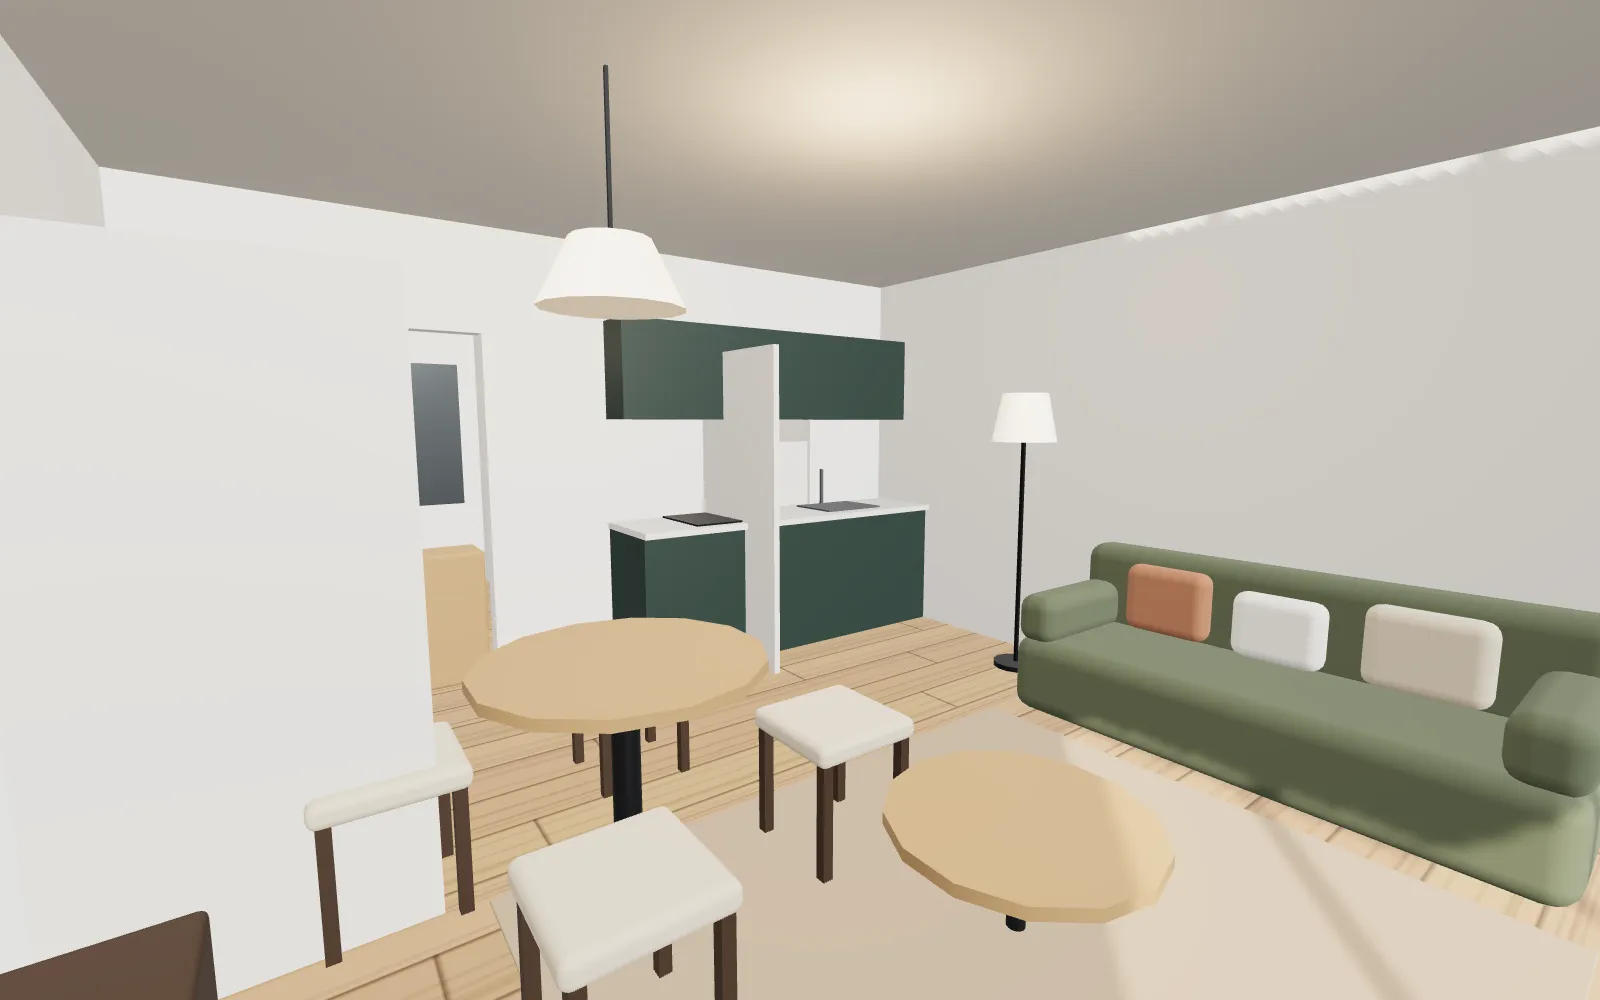
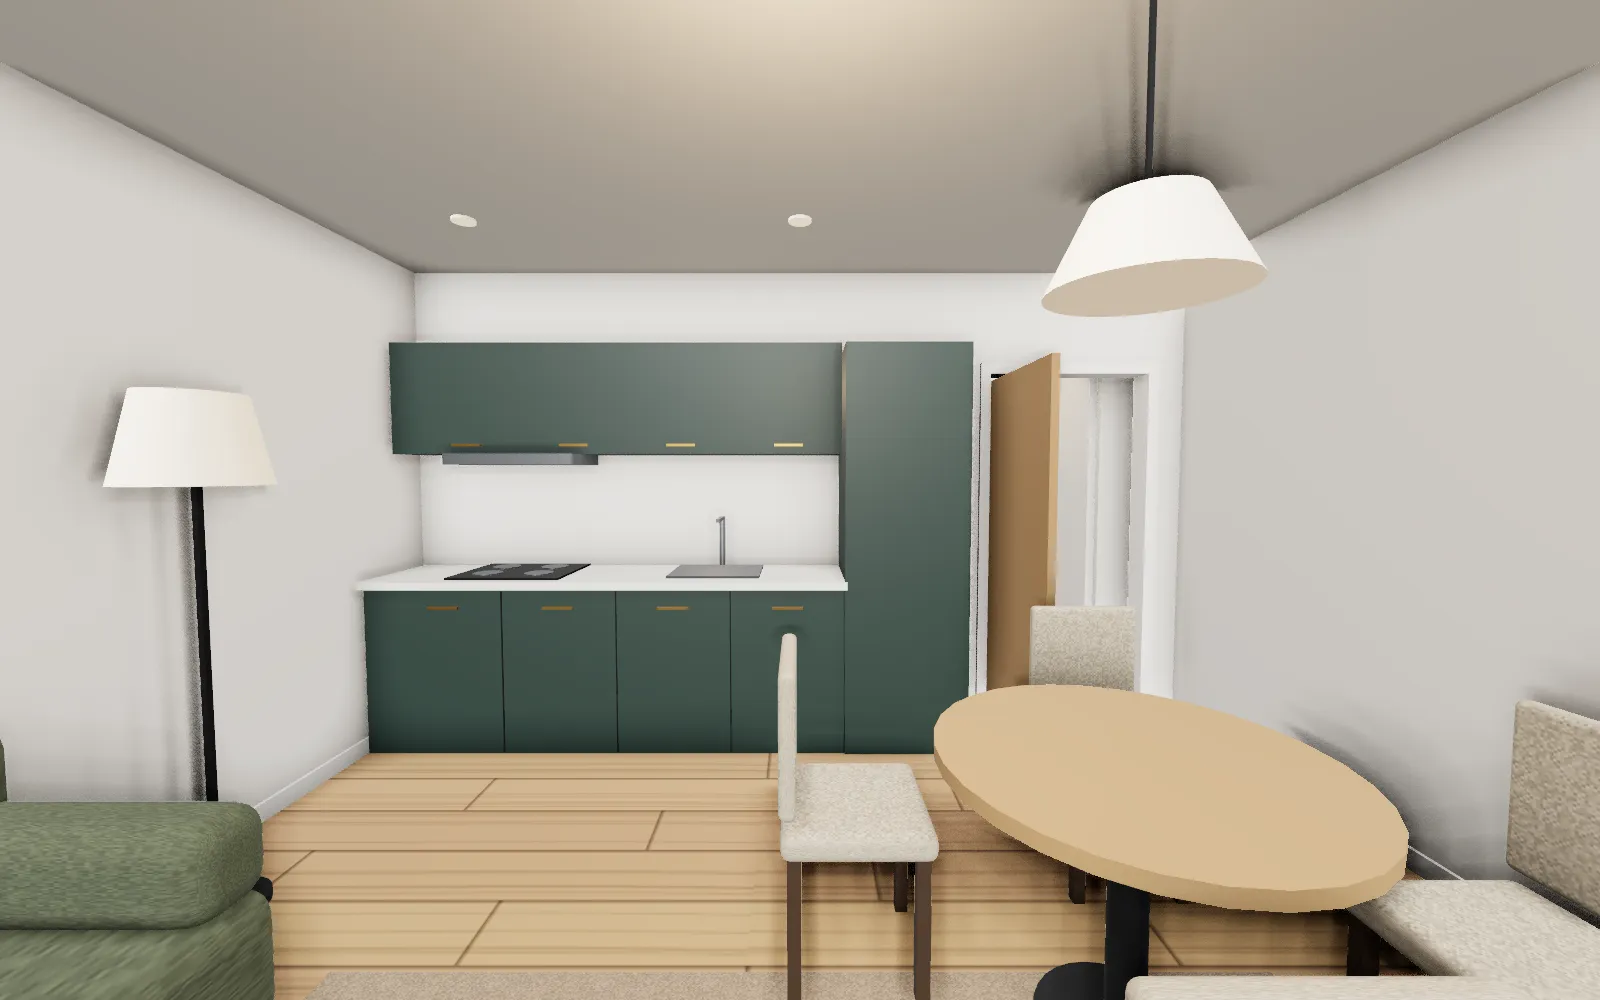
House re-planned around its halls, furniture solver on all buildings, cinema and doors fixed, room pictures re-rendered
Claude-Session: https://claude.ai/code/session_01BZrB8U47Xex47gJNQ3AVwN

diff --git a/3d/engine.js b/3d/engine.js
@@ -219,7 +219,7 @@ function makeMaterials() {
     brickRed: S('#fff', { map: T.brickRed, uv: 1.6, roughness: .95 }), brickDark: S('#fff', { map: T.brickDark, uv: 1.6, roughness: .95 }), brickBuff: S('#fff', { map: T.brickBuff, uv: 1.6, roughness: .95 }), brickNb: S('#fff', { map: T.brickNb, uv: 1.6, roughness: .95 }),
     render: S('#f0ece3', { roughness: .95 }), clad: S('#fff', { map: T.clad, uv: 1.4, roughness: .8 }), plinth: S('#3a3b3d', { roughness: .9 }), stone: S('#d9d2c3'),
     spandrel: S('#22262b', { roughness: .4, metalness: .5 }), bronze: S('#7a5a3a', { roughness: .35, metalness: .85 }), brass: S('#b08a4a', { roughness: .3, metalness: .9 }),
-    frame: S('#1d1f22', { roughness: .45, metalness: .6 }), door: S('#2b4a41', { roughness: .5 }), doorInt: S('#e9e5dd', { roughness: .6 }), rail: S('#1f2123', { roughness: .4, metalness: .7 }),
+    frame: S('#1d1f22', { roughness: .45, metalness: .6 }), door: S('#2b4a41', { roughness: .5 }), doorInt: S('#a9865c', { roughness: .5 }), rail: S('#1f2123', { roughness: .4, metalness: .7 }),
     wood: S('#fff', { map: T.oak, uv: 2.2, roughness: .55 }), tile: S('#fff', { map: T.tile, uv: 2.4, roughness: .3 }), carpet: S('#c9bfae', { roughness: 1 }), corridor: S('#77726a', { roughness: .85 }),
     lobbyFloor: S('#fff', { map: T.lobby, uv: 2.4, roughness: .2 }), deck: S('#fff', { map: T.deck, uv: 1.4, roughness: .8 }),
     sofa: S('#6a715a', { roughness: 1 }), fabric: S('#d6c9b3', { roughness: 1 }), linen: S('#f1ede5', { roughness: 1 }), throw_: S('#b57f63', { roughness: 1 }), curtain: S('#e4ddd0', { roughness: 1 }),
@@ -294,7 +294,8 @@ function classify(s, data, fi) {
   const comm = COMMUNAL.has(A.type) ? A : COMMUNAL.has(B.type) ? B : null;
   if (comm) { const o = comm === A ? B : A; return o.type === 'hall' || COMMUNAL.has(o.type) ? 'entry' : 'solid'; }
   if (A.unit !== B.unit) return 'solid';
-  if (style !== 'house') { if (A.type === 'hall' && B.type === 'hall') return 'none'; return A.type === 'hall' || B.type === 'hall' ? 'door' : 'solid'; }      // flats: every door is off the hall
+  if (A.type === 'hall' && B.type === 'hall') return 'none';
+  return A.type === 'hall' || B.type === 'hall' ? 'door' : 'solid';      // every door is off a hall
   if (LIVE.has(A.type) || LIVE.has(B.type)) return 'door';
   if ((A.type === 'bed' && B.type === 'bath') || (B.type === 'bed' && A.type === 'bath')) return 'door';
   return 'solid';
@@ -310,7 +311,7 @@ function planFloor(fl, data, fi) {
     if (cand) cand.kind = 'door';
   });
   // one door per room onto the hall: keep the widest wall
-  if (data.style !== 'house') rooms.forEach(q => { if (q.type === 'hall' || !q.unit) return; const ds = segs.filter(s => s.kind === 'door' && (s.A === q || s.B === q) && (s.A === q ? s.B : s.A).type === 'hall').sort((x, y) => (y.b - y.a) - (x.b - x.a)); ds.slice(1).forEach(s => { s.kind = 'solid'; }); });
+  rooms.forEach(q => { if (q.type === 'hall' || !q.unit) return; const ds = segs.filter(s => s.kind === 'door' && (s.A === q || s.B === q) && (s.A === q ? s.B : s.A).type === 'hall').sort((x, y) => (y.b - y.a) - (x.b - x.a)); ds.slice(1).forEach(s => { s.kind = 'solid'; }); });
   rooms.forEach(q => { q.ext = {}; });
   segs.forEach(s => {
     if (s.A && !s.B) s.A.ext[s.axis === 'x' ? 'e' : 's'] = true;
@@ -472,8 +473,8 @@ const SOLVE = new Set(['open', 'living', 'kitchen', 'dining', 'bed', 'bath', 'st
 function furnishBest(q, B, segs, rooms, o) {
   const glassZ = []; segs.forEach(g => { if ((g.A === q) === (g.B === q) || (g.A && g.B && !OUTSIDE.has((g.A === q ? g.B : g.A).type))) return; if (g.A && g.B && g.kind !== 'slider') return; const d0 = g.A === q ? g.L - .55 : g.L, d1 = g.A === q ? g.L : g.L + .55; glassZ.push(g.axis === 'x' ? [d0, d1, g.a, g.b] : [g.a, g.b, d0, d1]); });
   const SOFT = new Set(['curtain', 'plant', 'plant2', 'pot', 'flower']);
-  const fixed = !SOLVE.has(q.type) || q.tall || (o.house && o.fi === 0 && q.type === 'hall'), zones = fixed ? [] : doorZones(q, o.house ? segs.filter(g => g.kind === 'door') : segs);
-  const tries = fixed ? [{}] : o.house ? [{}, { flip: 1 }] : [{}, { swap: 1 }, { flip: 1 }, { flip: 1, swap: 1 }, { face: 'n' }, { face: 'n', flip: 1 }, { face: 's' }, { face: 's', flip: 1 }, { face: 'e' }, { face: 'e', flip: 1 }, { face: 'w' }, { face: 'w', flip: 1 }];
+  const fixed = !SOLVE.has(q.type) || q.tall || (o.house && o.fi === 0 && q.type === 'hall'), zones = fixed ? [] : doorZones(q, segs);
+  const tries = fixed ? [{}] : [{}, { swap: 1 }, { flip: 1 }, { flip: 1, swap: 1 }, { face: 'n' }, { face: 'n', flip: 1 }, { face: 's' }, { face: 's', flip: 1 }, { face: 'e' }, { face: 'e', flip: 1 }, { face: 'w' }, { face: 'w', flip: 1 }];
   const real = c => !((c.y1 - c.y0 < .05 && c.y0 < .1) || c.y0 > 2.0);          // not a rug, not something on the ceiling
   let best = null;
   for (const t of tries) {
@@ -580,10 +581,9 @@ function furnish(q, B, rooms, o) {
       return;
     }
     case 'living': {
-      if (q.look === 'cinema') {          // screen wall, two tiers of recliners, a bar at the back
-        box('black', U - 1.2, 2.3, .06, U / 2, 1.45, .08); box('screen', U - 1.8, 1.9, .03, U / 2, 1.45, .13); box('darkWood', U - .4, .3, 2.4, U / 2, .15, V - 2.6);
-        for (let r = 0; r < 2; r++) for (let k = 0; k < 4; k++) { const cu = U / 2 - 2.55 + k * 1.7, cv = 3.2 + r * 2.1, up = r * .3; rbox('sofa', 1.2, .45, 1.2, cu, .25 + up, cv, .12); rbox('sofa', 1.2, .7, .3, cu, .7 + up, cv + .55, .1); rbox('sofa', .2, .3, 1.1, cu - .62, .55 + up, cv, .06); rbox('sofa', .2, .3, 1.1, cu + .62, .55 + up, cv, .06); }
-        box('cabinet', 3.4, 1.05, .6, U / 2, .52, V - .36); box('worktop', 3.5, .05, .7, U / 2, 1.07, V - .36); for (let k = 0; k < 6; k++) cyl('glass', .04, .26, U / 2 - 1.2 + k * .48, 1.23, V - .3, .03); rbox('rug2', U - 1.4, .014, 2.2, U / 2, .007, 2.0, .005);
+      if (q.look === 'cinema') {          // screen on the solid back wall, two tiers of recliners facing it
+        box('black', U - 1.2, 2.3, .06, U / 2, 1.45, V - .08); box('screen', U - 1.8, 1.9, .03, U / 2, 1.45, V - .13); box('darkWood', U - .4, .3, 2.4, U / 2, .15, 2.4); rbox('rug2', U - 1.4, .014, 2.2, U / 2, .007, V - 2.0, .005);
+        for (let r = 0; r < 2; r++) for (let k = 0; k < 4; k++) { const cu = U / 2 - 2.55 + k * 1.7, cv = V - 3.4 - r * 2.1, up = r * .3; rbox('sofa', 1.2, .45, 1.2, cu, .25 + up, cv, .12); rbox('sofa', 1.2, .7, .3, cu, .7 + up, cv - .55, .1); rbox('sofa', .2, .3, 1.1, cu - .62, .55 + up, cv, .06); rbox('sofa', .2, .3, 1.1, cu + .62, .55 + up, cv, .06); }
         return;
       }
       if (q.look === 'bar') {          // sky lounge: a long bar, sofas facing the view, a telescope at the glass
@@ -605,7 +605,7 @@ function furnish(q, B, rooms, o) {
     case 'kitchen': { kitchen(.06, U - .06); island(U / 2, Math.max(1.5, V - 2.3), Math.min(2.4, U - 1.8)); plant(.4, .4, .9); beams(); return; }
     case 'dining': { if (U > 6 && V > 6) { rbox('rug', 6, .014, 3.4, U / 2, .007, V / 2, .005); longTable(U / 2, V / 2, 4.4, 12); [-1.4, 0, 1.4].forEach(k => pendant(U / 2 + k, V / 2, .55, .2)); rbox('darkWood', 3.2, .8, .45, U / 2, .4, V - .26, .02); artBack(U / 2, 2.4, 1.2, 1); plant(.6, .6, 1.4); return; } longTable(U / 2, V / 2, Math.min(2.2, U - 1), U < 3.4 ? 4 : 6); beams(); return; }
     case 'bed': {
-      const bw = U > 3.3 ? 1.65 : 1.4, bl = 2.05, bu = U / 2, bv = V - bl / 2 - .12;
+      const bw = U > 6 ? 2.1 : U > 3.3 ? 1.65 : 1.4, bl = U > 6 ? 2.2 : 2.05, bu = U / 2, bv = V - bl / 2 - .12;
       rbox('darkWood', bw + .12, .28, bl + .06, bu, .16, bv, .04); rbox('linen', bw, .24, bl - .08, bu, .42, bv, .08); rbox('throw_', bw + .04, .1, .7, bu, .52, bv - bl / 2 + .5, .04);
       rbox('fabric', bw + .2, 1.05, .12, bu, .6, V - .07, .05); rbox('white', .6, .16, .36, bu - bw / 4, .6, V - .42, .07); rbox('white', .6, .16, .36, bu + bw / 4, .6, V - .42, .07);
       [-1, 1].forEach(g => { if (U > bw + 1.3) { const su = bu + g * (bw / 2 + .36); rbox('oak', .46, .5, .4, su, .25, V - .27, .02); cyl('brass', .07, .02, su, .51, V - .27); box('brass', .015, .26, .015, su, .64, V - .27); cyl('lampShade', .12, .16, su, .82, V - .27, .08); } });
@@ -1135,7 +1135,7 @@ export function run(data, root) {
     aoLoading = false;
   }
   const EYE = 1.52, okRoom = r => (data.single || (walk && r.unit === walk.unit)) && r.type !== 'core' && r.type !== 'void' && !COMMUNAL.has(r.type);
-  const gaps = fi => plans[fi].filter(g => g.A && g.B && okRoom(g.A) && okRoom(g.B) && ['door', 'slider', 'bifold', 'none'].includes(g.kind)).map(g => g.kind === 'door' ? { g, a: g.dc - g.dw / 2 + .09, b: g.dc + g.dw / 2 - .09, c: g.dc } : { g, a: g.a + .3, b: g.b - .3, c: (g.a + g.b) / 2 }).filter(o => o.b > o.a);
+  const gaps = fi => plans[fi].filter(g => g.A && g.B && okRoom(g.A) && okRoom(g.B) && ['door', 'slider', 'bifold', 'none'].includes(g.kind) && (g.kind !== 'door' || g.b - g.a >= 1.3)).map(g => g.kind === 'door' ? { g, a: g.dc - g.dw / 2 + .09, b: g.dc + g.dw / 2 - .09, c: g.dc } : { g, a: g.a + .3, b: g.b - .3, c: (g.a + g.b) / 2 }).filter(o => o.b > o.a);
   const hitsSolid = (r, x, z, pad = .12, all) => ((all ? r.all : r.solids) || []).some(b => x > b[0] - pad && x < b[1] + pad && z > b[2] - pad && z < b[3] + pad);
   // the room you would be standing in at (x, z), or null if that is inside a wall or a piece of furniture
   function standAt(x, z, fi, pad = .12) {
@@ -1483,5 +1483,5 @@ export function run(data, root) {
   showCard(data.single ? houseCard() : buildingCard()); allBtn.classList.add('on'); setStyle('oak');
   requestAnimationFrame(t => { last = t; ui.loader && ui.loader.classList.add('done'); if (new URLSearchParams(location.search).has('story')) { storyOn(); parent !== window && parent.postMessage({ rv: 'ready' }, location.origin); } else flyTo(p0, t0, 2.2); hint(data.single ? 'Tap the house to see inside.' : 'Tap a floor to see inside it.'); tick(t); });
 
-  window.__rv = { openFloor, closeFloors, ask, setStyle, view, rooms: (fi, unit) => data.floors[fi].rooms.filter(q => !unit || q.unit === unit).map(q => [q.id, q.type]), turn: (a, pitch = -.04) => { look.yaw = faceWindow(walk.room) + a; look.pitch = pitch; dirty = true; }, fov: f => { camera.fov = f; camera.updateProjectionMatrix(); dirty = true; }, eye: (p, t, f = 68) => { fly = null; if (walk) walk.to = null; camera.position.set(...p); const d = new THREE.Vector3(t[0] - p[0], t[1] - p[1], t[2] - p[2]).normalize(); look.yaw = Math.atan2(d.x, d.z); look.pitch = Math.asin(d.y); camera.fov = f; camera.updateProjectionMatrix(); dirty = true; }, selectUnit: id => selectUnit(data.units[id]), enterWalk: (fi, id) => enterWalk(fi, data.floors[fi].rooms.find(q => q.id === id)), setTime: h => { ui.slider.value = h; setTime(h); }, look: (yaw, pitch = 0) => { look.yaw = yaw; look.pitch = pitch; dirty = true; }, cam: (p, t) => { fly = null; camera.position.set(...p); controls.target.set(...t); camera.lookAt(controls.target); dirty = true; }, info: () => ({ calls: renderer.info.render.calls, tris: renderer.info.render.triangles, geos: renderer.info.memory.geometries }), story: p => { if (!st) storyOn(); st.to = st.p = p; storyAt(p); }, storyEnter, storyLeave, sim: n => { for (let i = 0; i < n; i++) tick(last + 50, true); }, reach: () => data.floors.flatMap((f, fi) => { const out = []; const units = data.single ? [undefined] : [...new Set(f.rooms.filter(q => q.unit).map(q => q.unit))]; units.forEach(u => { const save = walk; walk = { unit: u }; const rs = f.rooms.filter(okRoom), start = rs.find(q => q.type === 'hall') || rs[0]; if (start) rs.forEach(q => { if (q !== start && route(fi, start, q) === null) out.push([fi, q.id]); }); walk = save; }); return out; }), go: id => moveTo(data.floors[walk.floor].rooms.find(q => q.id === id), walk.floor), walkInfo: () => walk && { room: walk.room.id, pos: camera.position.toArray().map(v => +v.toFixed(2)), moving: !!walk.path }, key: (k, on) => { keys[k] = on; }, audit: () => data.floors.flatMap((f, i) => { ensureInner(i); return f.rooms.filter(q => q.fit > .01).map(q => [i, q.id, q.type, +q.fit.toFixed(2)]); }), settled: () => !fly && !(walk && walk.to) && (cut > BIG / 2 || Math.abs(cutTo - cut) < .03) };
+  window.__rv = { openFloor, closeFloors, ask, setStyle, view, rooms: (fi, unit) => data.floors[fi].rooms.filter(q => !unit || q.unit === unit).map(q => [q.id, q.type]), turn: (a, pitch = -.04) => { look.yaw = faceWindow(walk.room) + a; look.pitch = pitch; dirty = true; }, fov: f => { camera.fov = f; camera.updateProjectionMatrix(); dirty = true; }, eye: (p, t, f = 68) => { fly = null; if (walk) walk.to = null; camera.position.set(...p); const d = new THREE.Vector3(t[0] - p[0], t[1] - p[1], t[2] - p[2]).normalize(); look.yaw = Math.atan2(d.x, d.z); look.pitch = Math.asin(d.y); camera.fov = f; camera.updateProjectionMatrix(); dirty = true; }, selectUnit: id => selectUnit(data.units[id]), enterWalk: (fi, id) => enterWalk(fi, data.floors[fi].rooms.find(q => q.id === id)), setTime: h => { ui.slider.value = h; setTime(h); }, look: (yaw, pitch = 0) => { look.yaw = yaw; look.pitch = pitch; dirty = true; }, cam: (p, t) => { fly = null; camera.position.set(...p); controls.target.set(...t); camera.lookAt(controls.target); dirty = true; }, info: () => ({ calls: renderer.info.render.calls, tris: renderer.info.render.triangles, geos: renderer.info.memory.geometries }), story: p => { if (!st) storyOn(); st.to = st.p = p; storyAt(p); }, storyEnter, storyLeave, inside: (fi, id) => { enterWalk(fi, data.floors[fi].rooms.find(q => q.id === id), true); if (fly) { camera.position.copy(fly.p1); fly = null; } camera.fov = walkFov(); camera.updateProjectionMatrix(); dirty = true; }, sim: n => { for (let i = 0; i < n; i++) tick(last + 50, true); }, reach: () => data.floors.flatMap((f, fi) => { const out = []; const units = data.single ? [undefined] : [...new Set(f.rooms.filter(q => q.unit).map(q => q.unit))]; units.forEach(u => { const save = walk; walk = { unit: u }; const rs = f.rooms.filter(okRoom), start = rs.find(q => q.type === 'hall') || rs[0]; if (start) rs.forEach(q => { if (q !== start && route(fi, start, q) === null) out.push([fi, q.id]); }); walk = save; }); return out; }), go: id => moveTo(data.floors[walk.floor].rooms.find(q => q.id === id), walk.floor), walkInfo: () => walk && { room: walk.room.id, pos: camera.position.toArray().map(v => +v.toFixed(2)), moving: !!walk.path }, key: (k, on) => { keys[k] = on; }, audit: () => data.floors.flatMap((f, i) => { ensureInner(i); return f.rooms.filter(q => q.fit > .01).map(q => [i, q.id, q.type, +q.fit.toFixed(2)]); }), settled: () => !fly && !(walk && walk.to) && (cut > BIG / 2 || Math.abs(cutTo - cut) < .03) };
 }

diff --git a/3d/buildings.js b/3d/buildings.js
@@ -205,25 +205,22 @@ export function house() {
   const ground = [
     r('hall', 'hall', -1.2, -4.5, 2.6, 4.2, { unit: 'house', name: 'Entrance hall' }),
     r('living', 'living', -6, -4.5, 4.8, 4.2, { unit: 'house', name: 'Living room' }),
-    r('study', 'study', 1.4, -4.5, 4.6, 3.0, { unit: 'house', name: 'Study' }),
-    r('wc', 'bath', 1.4, -1.5, 1.8, 1.2, { unit: 'house', name: 'Cloakroom' }),
-    r('util', 'utility', 3.2, -1.5, 2.8, 1.2, { unit: 'house', name: 'Utility' }),
+    r('study', 'study', 1.4, -4.5, 4.6, 2.8, { unit: 'house', name: 'Study' }),
+    r('wc', 'bath', 1.4, -1.7, 1.8, 1.4, { unit: 'house', name: 'Cloakroom' }),
+    r('util', 'utility', 3.2, -1.7, 2.8, 1.4, { unit: 'house', name: 'Utility' }),
     r('kitchen', 'kitchen', 1.4, -0.3, 4.6, 4.8, { unit: 'house', name: 'Kitchen' }),
     r('dining', 'dining', -1.2, -0.3, 2.6, 4.8, { unit: 'house', name: 'Dining' }),
-    r('family', 'living', -6, 0.3, 4.8, 4.2, { unit: 'house', name: 'Family room' }),
-    r('snug', 'hall', -6, -0.3, 4.8, 0.6, { unit: 'house', name: 'Passage' }),
+    r('family', 'living', -6, -0.3, 4.8, 4.8, { unit: 'house', name: 'Family room' }),
   ];
   const first = [
-    r('land', 'hall', -1.2, -4.5, 2.6, 4.2, { unit: 'house', name: 'Landing' }),
+    r('land', 'hall', -1.2, -4.5, 2.6, 5.7, { unit: 'house', name: 'Landing' }),
     r('b1', 'bed', -6, -4.5, 4.8, 4.2, { unit: 'house', name: 'Main bedroom' }),
-    r('ens', 'bath', 1.4, -4.5, 2.4, 2.2, { unit: 'house', name: 'En-suite' }),
-    r('ward', 'utility', 3.8, -4.5, 2.2, 2.2, { unit: 'house', name: 'Dressing room' }),
+    r('ens', 'bath', 1.4, -4.5, 2.4, 2.2, { unit: 'house', name: 'Shower room' }),
+    r('ward', 'utility', 3.8, -4.5, 2.2, 2.2, { unit: 'house', name: 'Linen and storage' }),
     r('b4', 'study', 1.4, -2.3, 4.6, 2.0, { unit: 'house', name: 'Bedroom 4 / office' }),
-    r('bath', 'bath', -1.2, -0.3, 2.6, 2.4, { unit: 'house', name: 'Family bathroom' }),
+    r('bath', 'bath', -1.2, 1.2, 2.6, 3.3, { unit: 'house', name: 'Family bathroom' }),
     r('b2', 'bed', 1.4, -0.3, 4.6, 4.8, { unit: 'house', name: 'Bedroom 2' }),
-    r('b3', 'bed', -6, 0.3, 4.8, 4.2, { unit: 'house', name: 'Bedroom 3' }),
-    r('linen', 'utility', -1.2, 2.1, 2.6, 2.4, { unit: 'house', name: 'Linen cupboard' }),
-    r('lp', 'hall', -6, -0.3, 4.8, 0.6, { unit: 'house', name: 'Landing' }),
+    r('b3', 'bed', -6, -0.3, 4.8, 4.8, { unit: 'house', name: 'Bedroom 3' }),
   ];
   const floors = [
     { label: 'Ground floor', short: 'G', rooms: ground },
@@ -257,7 +254,7 @@ export function house() {
     blurb: 'A modern barn-style family home with a glazed gable over the garden. Walk through every room.',
     style: 'house', story: { floor: 0, room: 'kitchen' }, floorH: H, size: [12, 9], floors, units, notes,
     site: { kind: 'suburb' }, roof: 'barn', startHour: 15.5, single: true,
-    doorAt: { 'hall|study': 0.2 }, wallKind: { 'hall|wc': 'solid' },
+    doorAt: { 'hall|study': 0.2 }, wallKind: { 'dining|kitchen': 'none', 'dining|family': 'door' },
     spec: {
       materials: 'White lime render with black charred-timber cladding on the gables, a natural slate roof and an oak-framed porch. The back gable is glazed to the ridge.',
       finishes: 'Oak floors, a quartz island kitchen, a wood burner in the living room and stone-tiled bathrooms. Try the Style button to see other finishes.',

diff --git a/3d/block/index.html b/3d/block/index.html
@@ -10,7 +10,7 @@
 <link rel="icon" href="/favicon.svg" type="image/svg+xml">
 <link rel="preconnect" href="https://fonts.gstatic.com" crossorigin>
 <link rel="stylesheet" href="https://fonts.googleapis.com/css2?family=Cormorant+Garamond:wght@400;500;600&amp;family=Schibsted+Grotesk:wght@400;500;600&amp;display=swap">
-<link rel="stylesheet" href="/3d/viewer.css?v=11">
+<link rel="stylesheet" href="/3d/viewer.css?v=12">
 <script type="importmap">{"imports":{"three":"/3d/lib/three.module.js"}}</script>
 </head>
 <body>
@@ -72,8 +72,8 @@
   <div class="nogl" data-nogl><p>This demo needs WebGL, which this browser has switched off.</p></div>
 </main>
 <script type="module">
-import { run } from '/3d/engine.js?v=11';
-import { block } from '/3d/buildings.js?v=11';
+import { run } from '/3d/engine.js?v=12';
+import { block } from '/3d/buildings.js?v=12';
 const root = document.getElementById('rv'), q = new URLSearchParams(location.search);
 if (q.has('embed')) root.classList.add('embed');
 try {

diff --git a/3d/house/index.html b/3d/house/index.html
@@ -10,7 +10,7 @@
 <link rel="icon" href="/favicon.svg" type="image/svg+xml">
 <link rel="preconnect" href="https://fonts.gstatic.com" crossorigin>
 <link rel="stylesheet" href="https://fonts.googleapis.com/css2?family=Cormorant+Garamond:wght@400;500;600&amp;family=Schibsted+Grotesk:wght@400;500;600&amp;display=swap">
-<link rel="stylesheet" href="/3d/viewer.css?v=11">
+<link rel="stylesheet" href="/3d/viewer.css?v=12">
 <script type="importmap">{"imports":{"three":"/3d/lib/three.module.js"}}</script>
 </head>
 <body>
@@ -72,8 +72,8 @@
   <div class="nogl" data-nogl><p>This demo needs WebGL, which this browser has switched off.</p></div>
 </main>
 <script type="module">
-import { run } from '/3d/engine.js?v=11';
-import { house } from '/3d/buildings.js?v=11';
+import { run } from '/3d/engine.js?v=12';
+import { house } from '/3d/buildings.js?v=12';
 const root = document.getElementById('rv'), q = new URLSearchParams(location.search);
 if (q.has('embed')) root.classList.add('embed');
 try {

diff --git a/3d/tower/index.html b/3d/tower/index.html
@@ -10,7 +10,7 @@
 <link rel="icon" href="/favicon.svg" type="image/svg+xml">
 <link rel="preconnect" href="https://fonts.gstatic.com" crossorigin>
 <link rel="stylesheet" href="https://fonts.googleapis.com/css2?family=Cormorant+Garamond:wght@400;500;600&amp;family=Schibsted+Grotesk:wght@400;500;600&amp;display=swap">
-<link rel="stylesheet" href="/3d/viewer.css?v=11">
+<link rel="stylesheet" href="/3d/viewer.css?v=12">
 <script type="importmap">{"imports":{"three":"/3d/lib/three.module.js"}}</script>
 </head>
 <body>
@@ -72,8 +72,8 @@
   <div class="nogl" data-nogl><p>This demo needs WebGL, which this browser has switched off.</p></div>
 </main>
 <script type="module">
-import { run } from '/3d/engine.js?v=11';
-import { tower } from '/3d/buildings.js?v=11';
+import { run } from '/3d/engine.js?v=12';
+import { tower } from '/3d/buildings.js?v=12';
 const root = document.getElementById('rv'), q = new URLSearchParams(location.search);
 if (q.has('embed')) root.classList.add('embed');
 try {

diff --git a/offplan/dev.js b/offplan/dev.js
@@ -1,6 +1,6 @@
 // Off-plan development page. One template for any development: a tower, a block of flats or a single house.
 // Plans and homes come from /3d/buildings.js, words and pictures from content.js, and the 3D model opens on tap.
-import * as BUILD from '/3d/buildings.js?v=11';
+import * as BUILD from '/3d/buildings.js?v=12';
 import { CONTENT } from './content.js?v=6';
 
 const OUT = new Set(['balcony', 'terrace']), SHARED = new Set(['corridor', 'lobby', 'core']);

diff --git a/offplan/ashcombe-house/index.html b/offplan/ashcombe-house/index.html
@@ -14,6 +14,6 @@
 <body>
 <main id="dev"></main>
 <noscript><p style="padding:40px">This page needs JavaScript to show the plans and the 3D model.</p></noscript>
-<script type="module">import { mount } from '/offplan/dev.js?v=10'; mount('house');</script>
+<script type="module">import { mount } from '/offplan/dev.js?v=11'; mount('house');</script>
 </body>
 </html>

diff --git a/offplan/halden-tower/index.html b/offplan/halden-tower/index.html
@@ -14,6 +14,6 @@
 <body>
 <main id="dev"></main>
 <noscript><p style="padding:40px">This page needs JavaScript to show the plans and the 3D model.</p></noscript>
-<script type="module">import { mount } from '/offplan/dev.js?v=10'; mount('tower');</script>
+<script type="module">import { mount } from '/offplan/dev.js?v=11'; mount('tower');</script>
 </body>
 </html>

diff --git a/offplan/wharf-row/index.html b/offplan/wharf-row/index.html
@@ -14,6 +14,6 @@
 <body>
 <main id="dev"></main>
 <noscript><p style="padding:40px">This page needs JavaScript to show the plans and the 3D model.</p></noscript>
-<script type="module">import { mount } from '/offplan/dev.js?v=10'; mount('block');</script>
+<script type="module">import { mount } from '/offplan/dev.js?v=11'; mount('block');</script>
 </body>
 </html>
